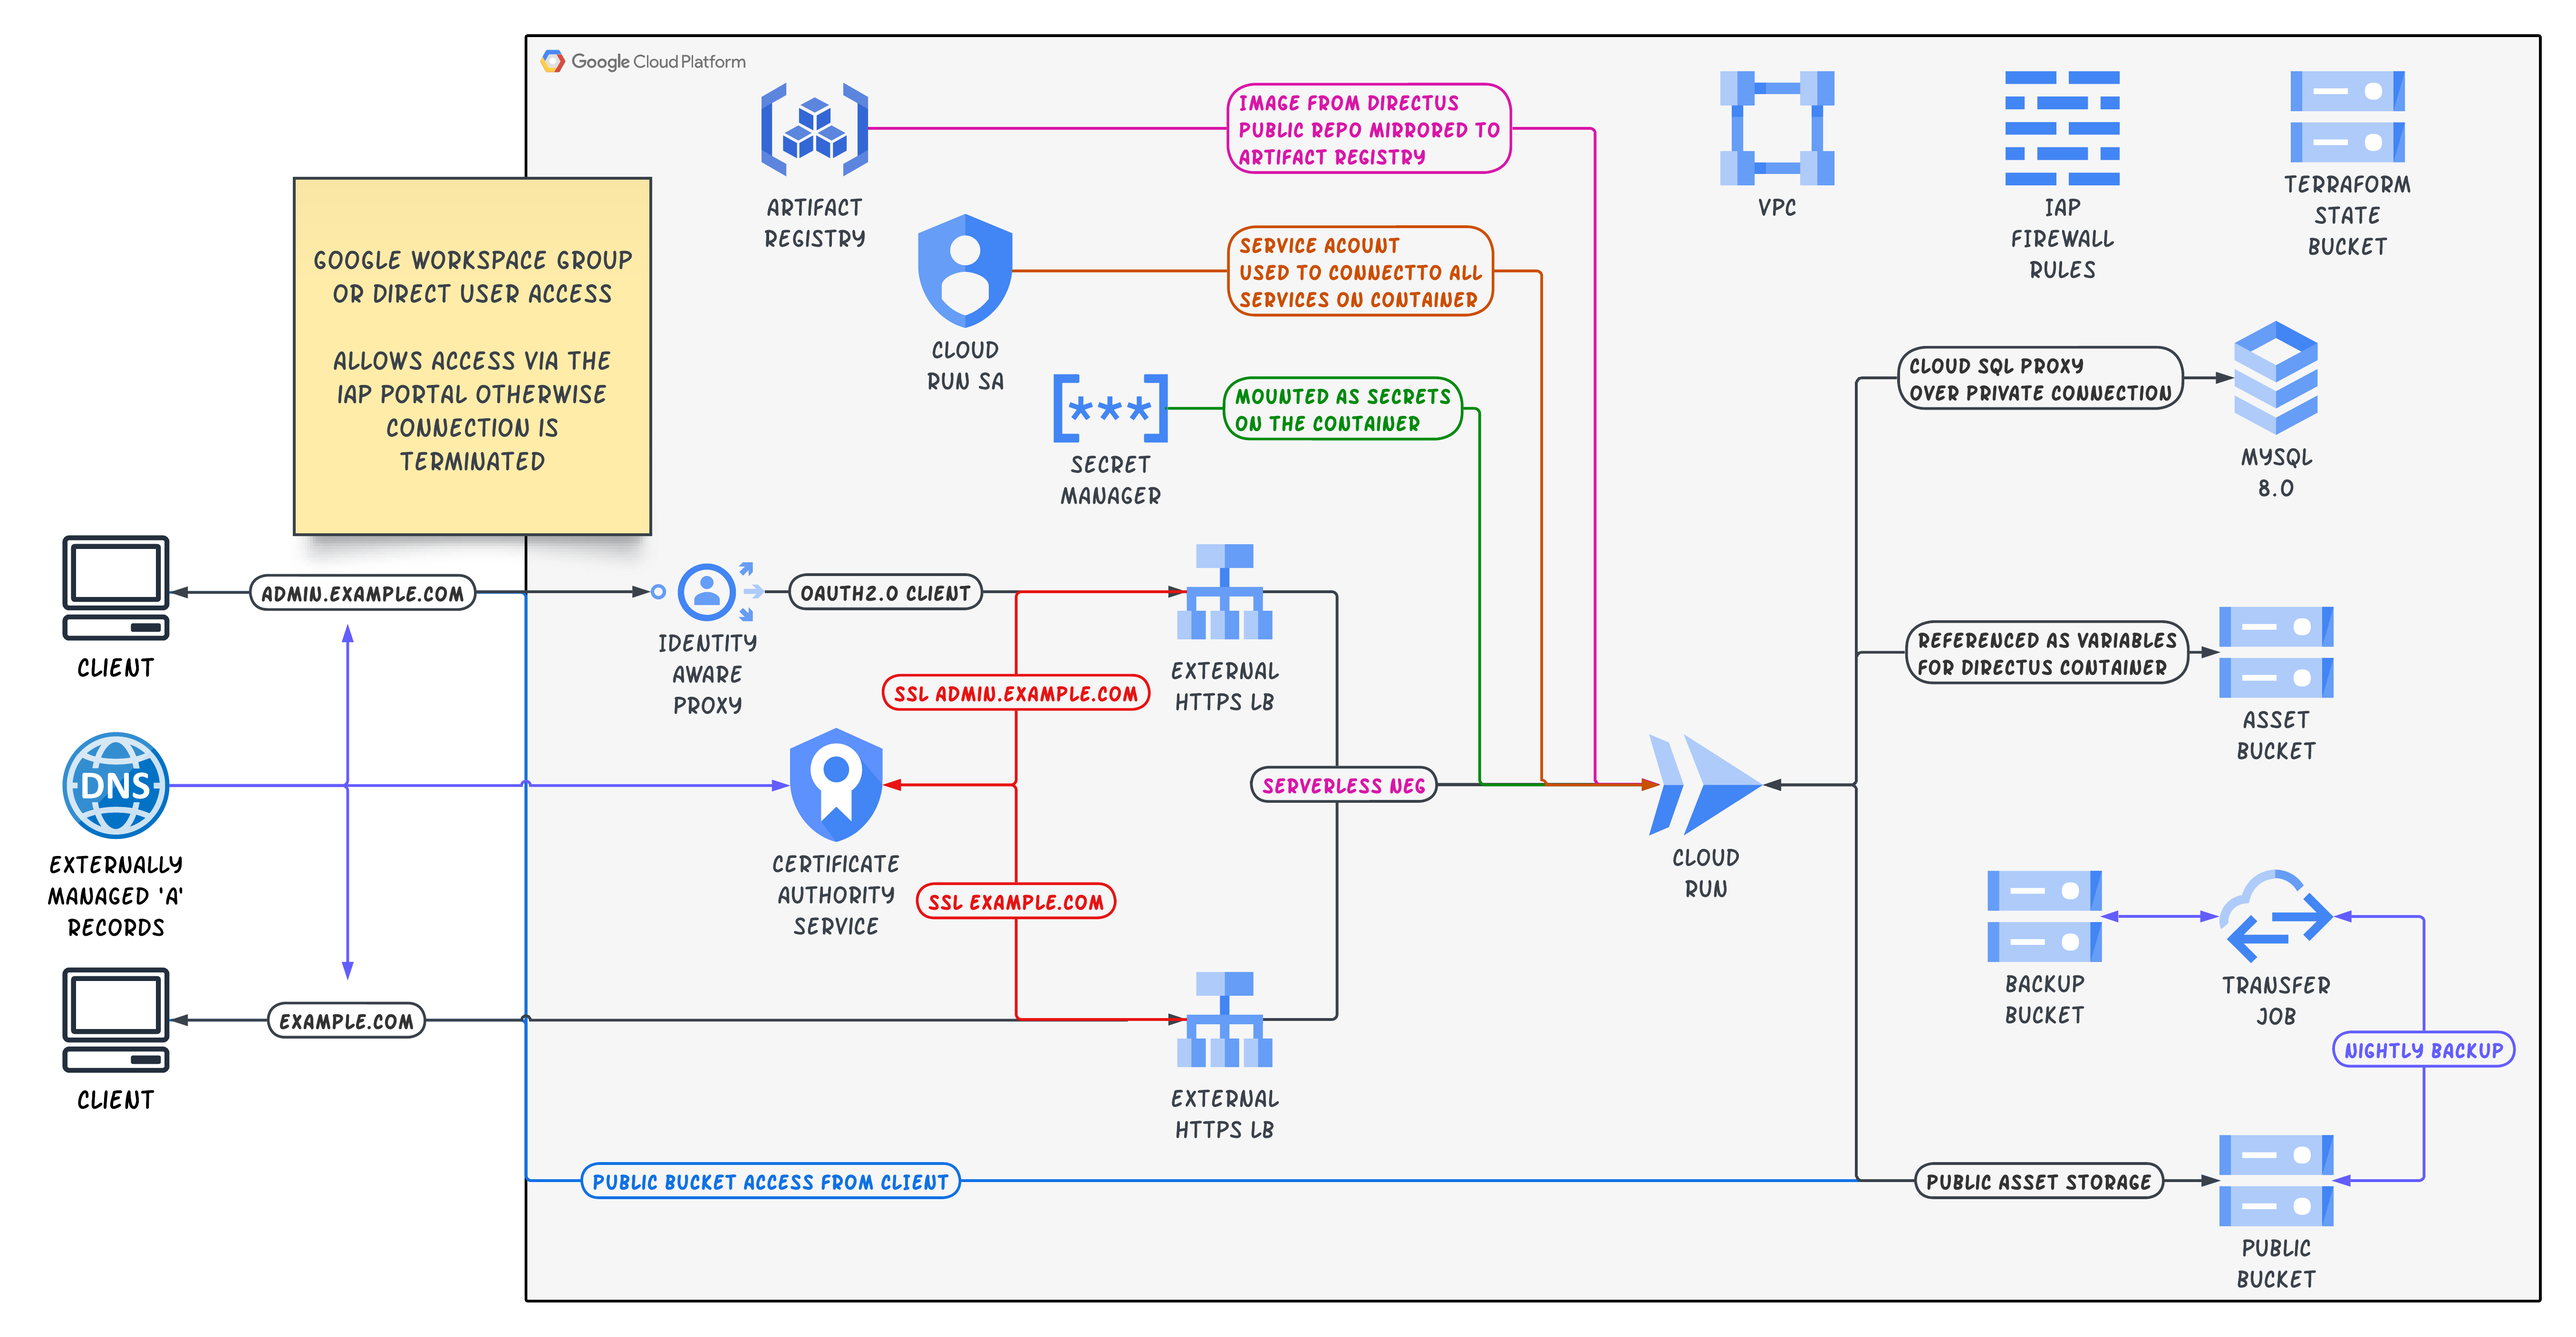
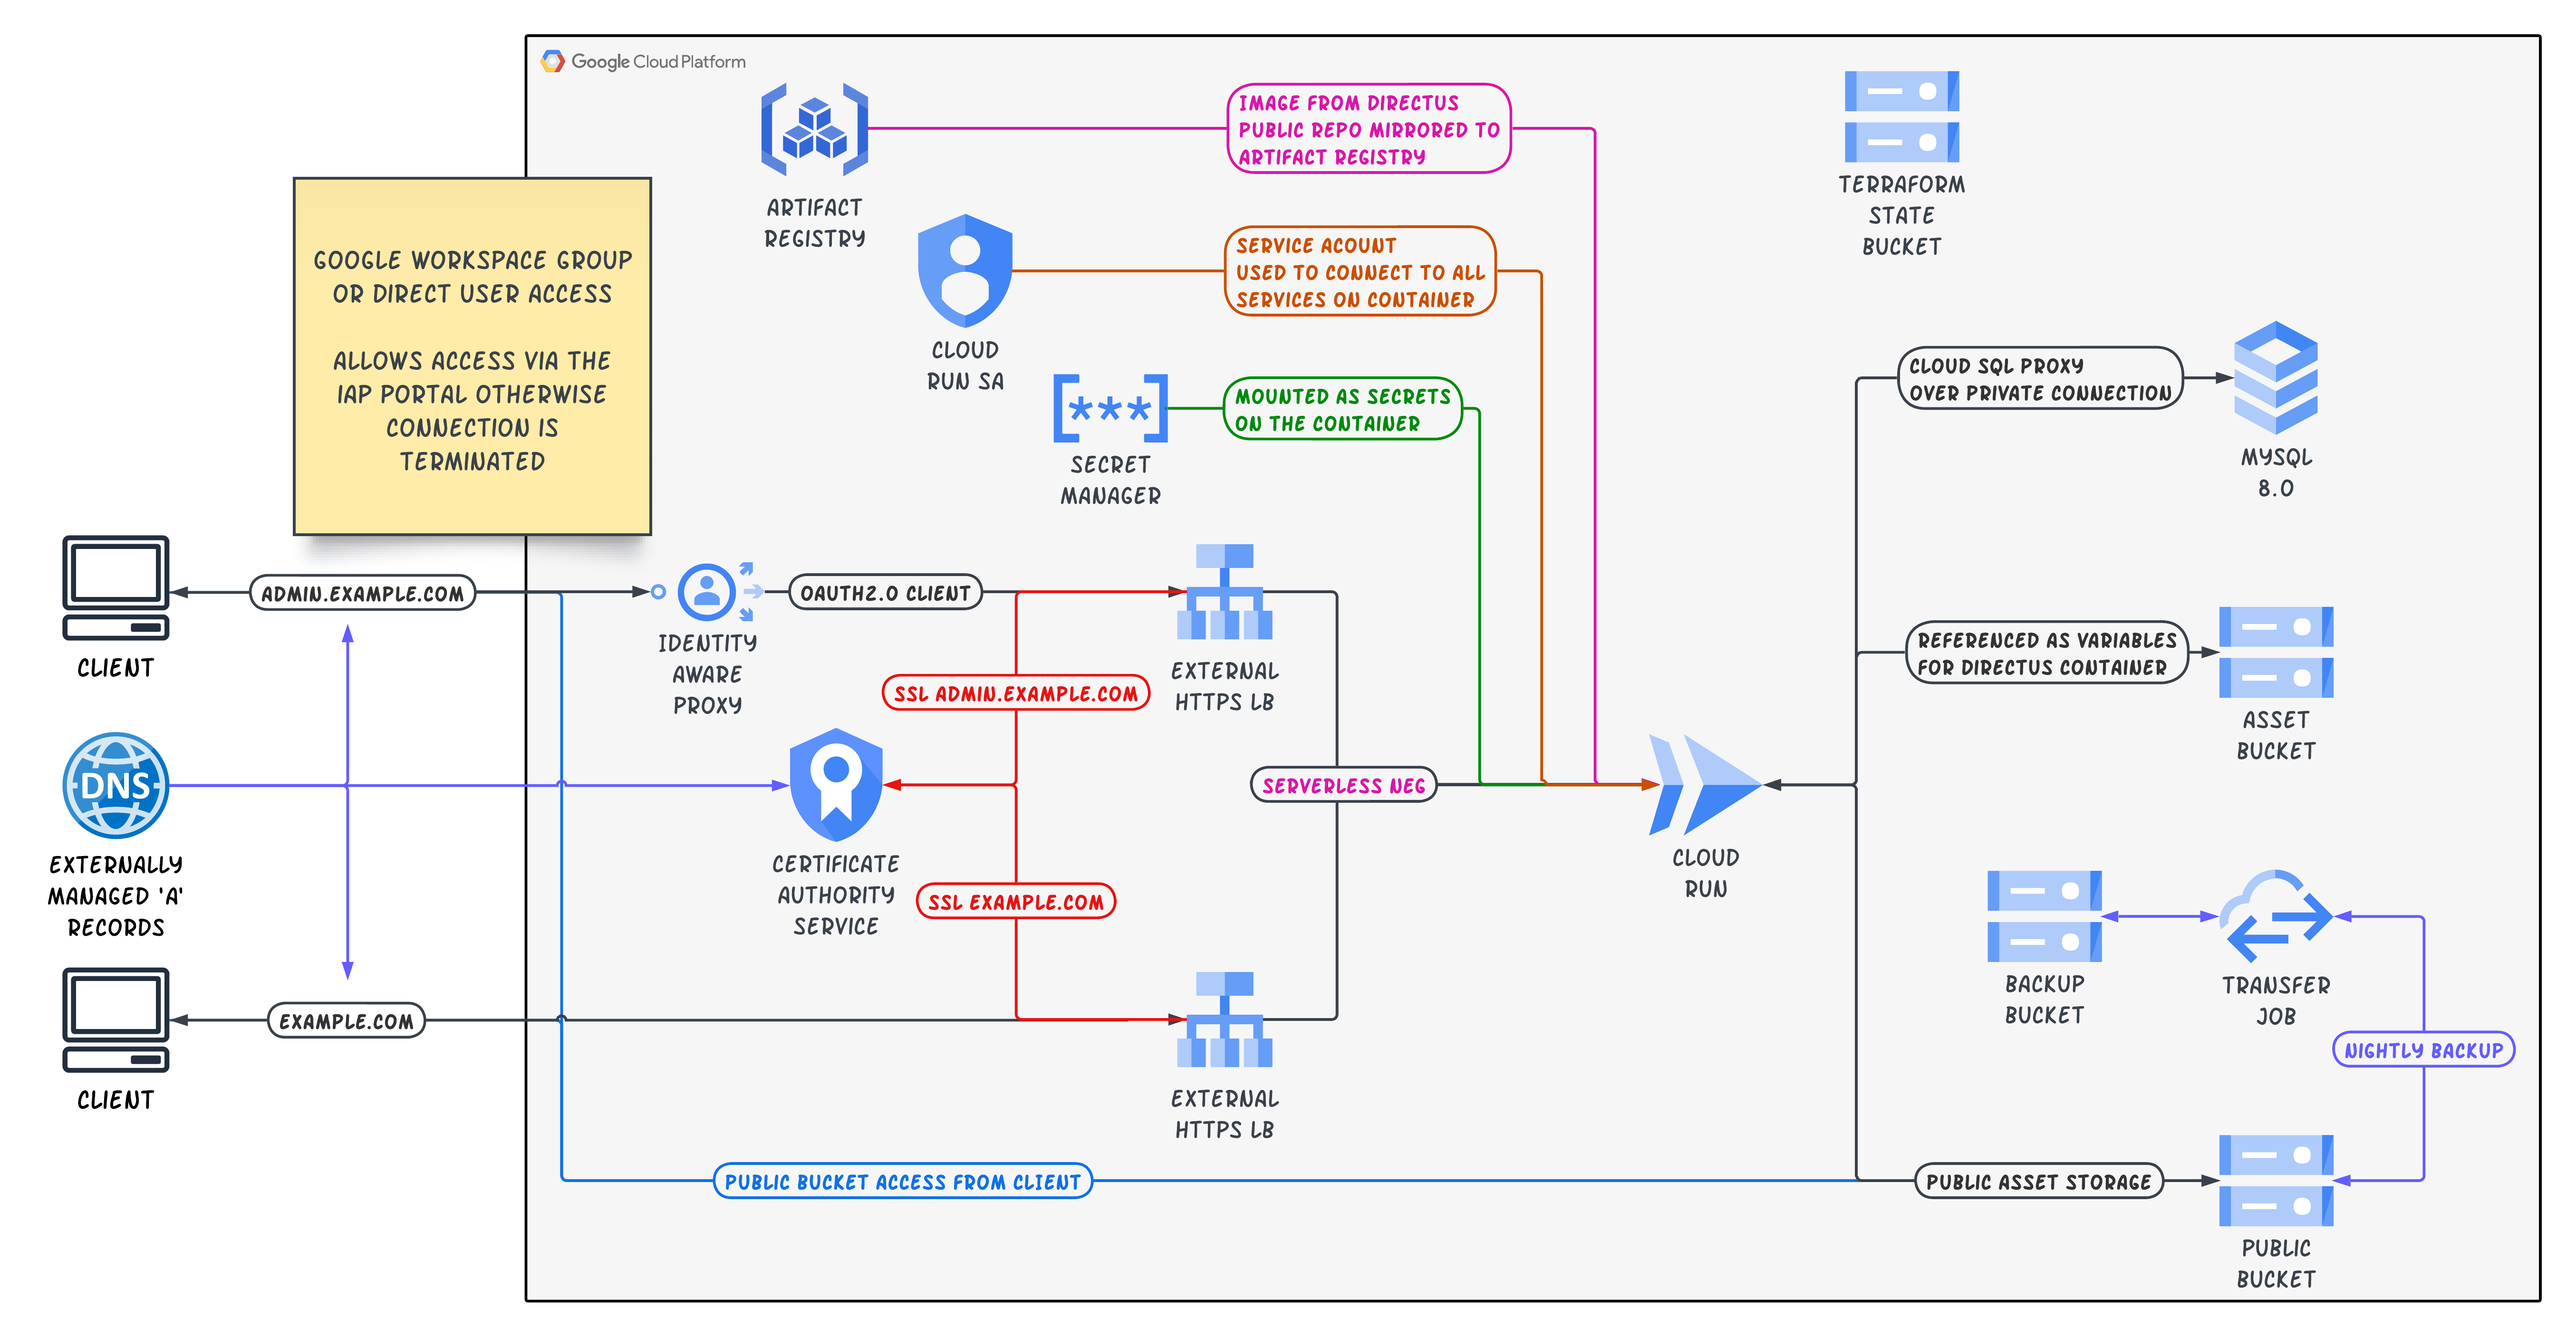
added disclaimer to readme and removed VPC + FW rules from Diagram, as I will create a network only diagram in the near future

diff --git a/README.md b/README.md
@@ -86,3 +86,6 @@ If you need to rename the container, redeploy the container or simply want to re
 You can now delete the cloud run container / update it, as well as delete / update the Serverless NEG.
 
 I don't know why I can't get terraform to handle this transition for me, but I couldn't
+
+# Important Note 
+This repository demonstrates an end-to-end deployment pattern for hosting a Docker image using Cloud Run and Identity-Aware Proxy (IAP). However, this is just one approach, and you should always conduct your own research and ensure that the tools and technologies used here meet your specific needs before implementing them in your own projects.
